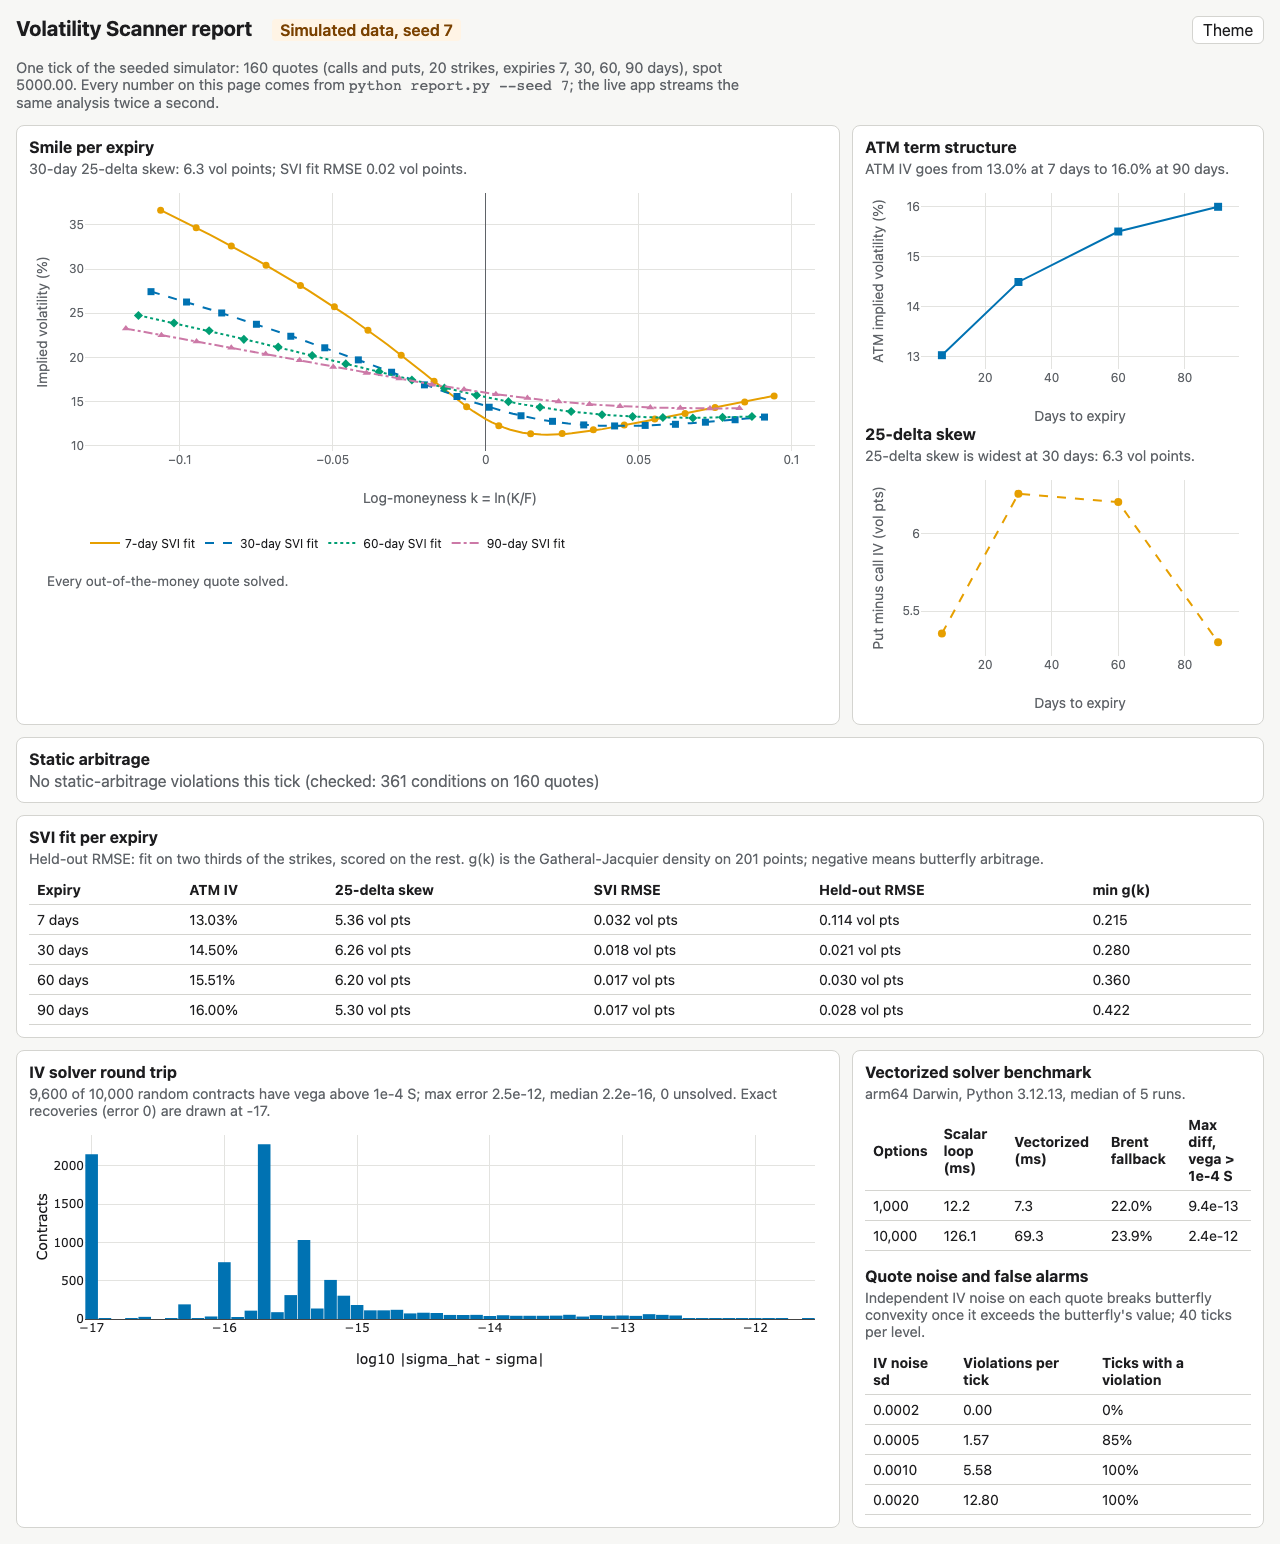
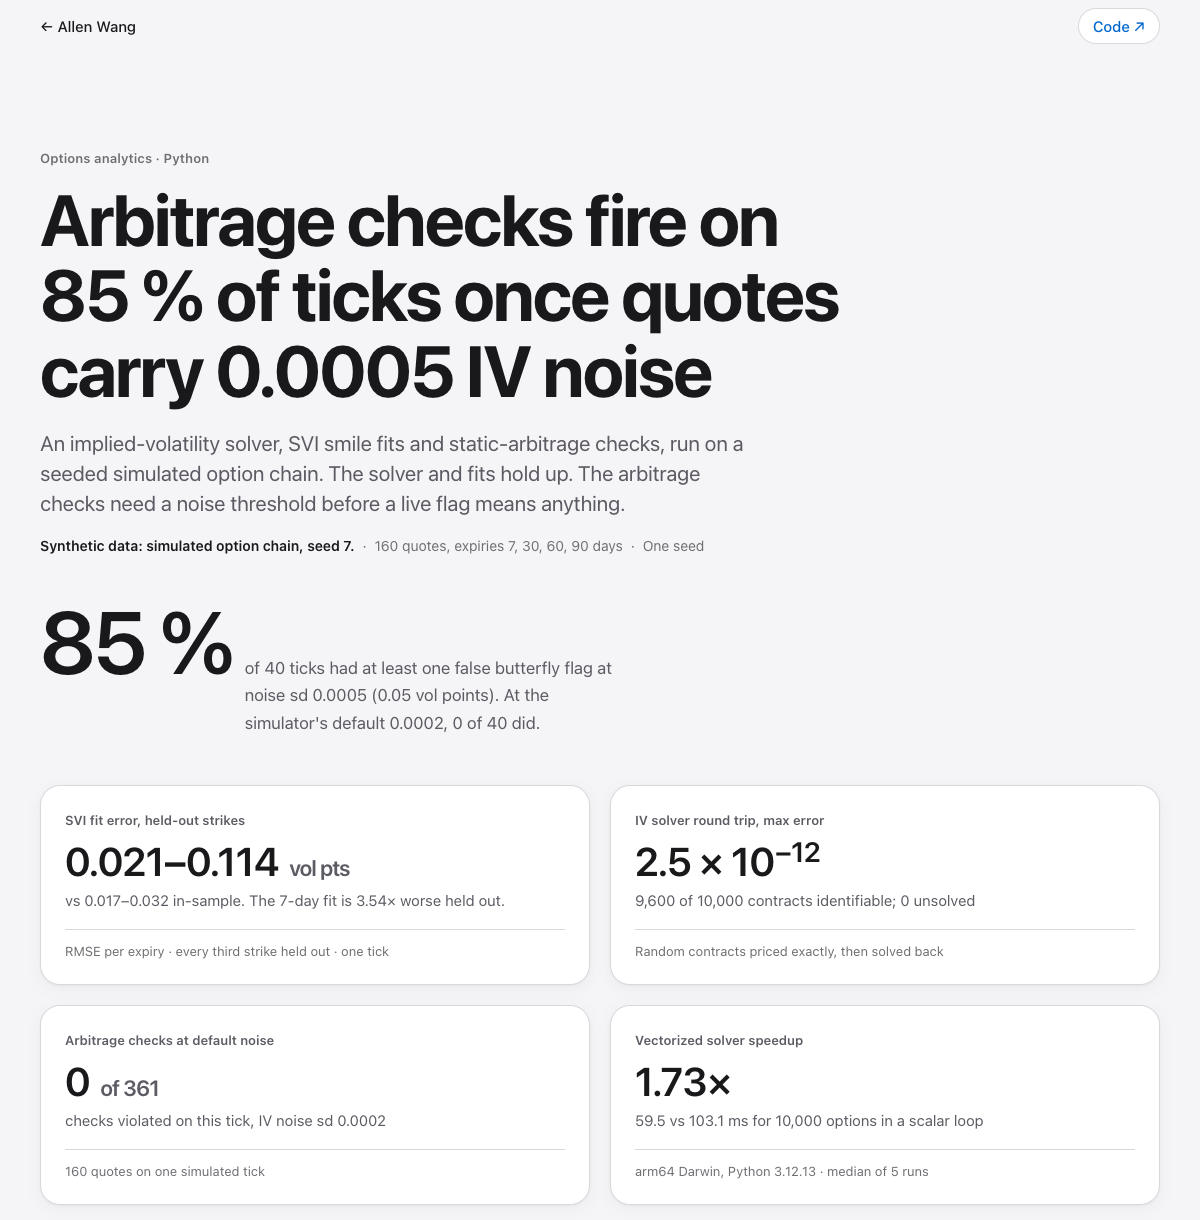
README: held-out SVI error, noise-sensitivity finding, new screenshot

diff --git a/README.md b/README.md
@@ -2,13 +2,15 @@
 
 A live options scanner: it streams an option chain, works out the implied volatility (the volatility the market price implies) of every quote, fits a smooth curve per expiry and flags prices that would allow risk-free profit. It runs as a web dashboard that updates twice a second.
 
-![Static report: smiles, term structure, skew, arbitrage table and fit quality](docs/assets/report.png)
+![Report: false alarms by quote noise, SVI residuals](docs/assets/report.png)
+
+[Report](https://allenwang0.github.io/volatilityscanner/)
 
 ## Highlights
 
 - **Robust implied-volatility solver:** price-bound checks, a smart starting guess, Newton steps with a Brent fallback. On 10,000 random contracts, every one with usable sensitivity solves, with max error 2.5e-12.
-- **SVI curve fits** (a standard volatility-smile model) checked for arbitrage, with 0.017 to 0.032 volatility points of error on the simulated chain.
-- **Five no-arbitrage checks,** each sized in dollars and compared with the cost of crossing the bid-ask spread.
+- **SVI curve fits** (a standard volatility-smile model) checked for arbitrage, with 0.017–0.032 vol points of error in-sample and 0.021–0.114 held out (simulated chain).
+- **Five no-arbitrage checks,** each sized in dollars and compared with the cost of crossing the bid-ask spread. At 0.0005 IV noise per quote they fire on 85% of simulated ticks.
 - **WebSocket server** where a slow client skips to the newest update instead of slowing everyone else.
 
 ## Run it
@@ -29,6 +31,6 @@ make setup PYTHON=python3.12
 
 ## Limitations
 
-- The headline numbers come from the simulator, not market data.
+- The headline numbers come from the simulator, not market data. Its smiles are SVI-shaped, so SVI fits by design.
 - Black-Scholes assumes European exercise; SPY options are American, so some prices are only approximately right.
 - Yahoo quotes are delayed and not synchronized across strikes.
